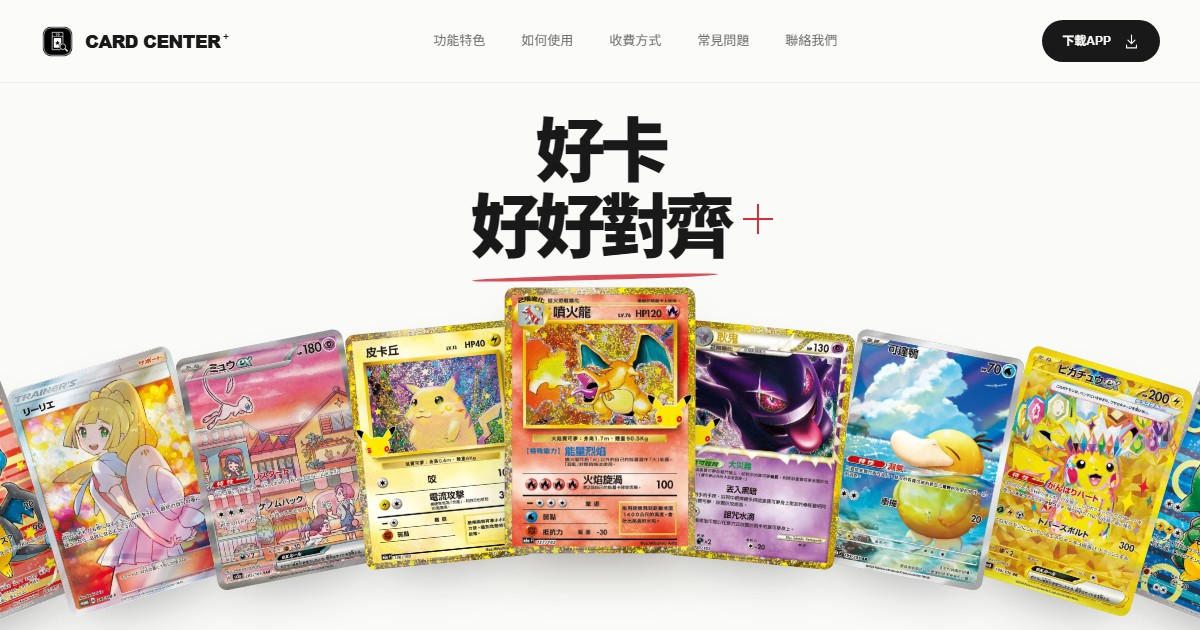
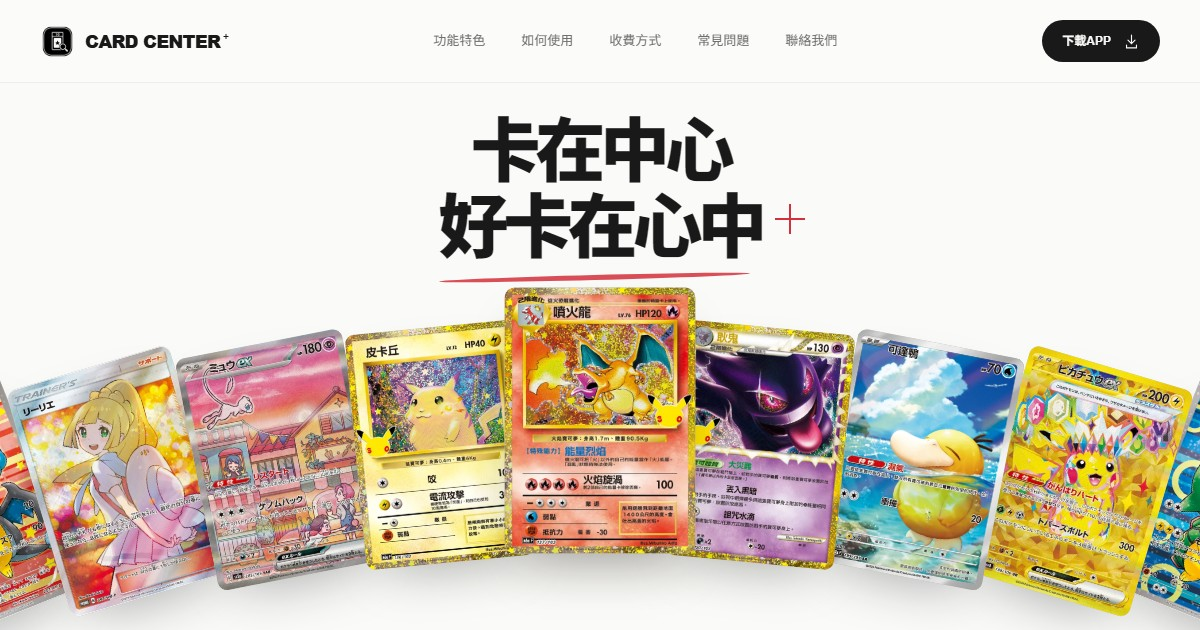
Update the homepage slogan and social preview to 卡在中心 好卡在心中

Changed region(s): [[0.37, 0.181, 0.6783, 0.4524]]

diff --git a/index.html b/index.html
@@ -8,9 +8,9 @@
 <meta content="#fafaf8" name="theme-color"/>
 <meta content="CARD CENTER 卡牌邊框分析 App自動偵測內外框、分析正反面居中比例 製作你的收藏小卡 儲存、分享並收進專屬圖鑑" name="description"/>
 <meta content="website" property="og:type"/>
-<meta content="CARD CENTER — 好卡 好好對齊" property="og:title"/>
+<meta content="CARD CENTER — 卡在中心 好卡在心中" property="og:title"/>
 <meta content="CARD CENTER 卡牌邊框分析 App自動偵測內外框、分析正反面居中比例 製作你的收藏小卡 儲存、分享並收進專屬圖鑑" property="og:description"/>
-<meta content="https://ice0819.github.io/Card-Align/assets/social-preview-card-center.jpg" property="og:image"/>
+<meta content="https://ice0819.github.io/Card-Align/assets/social-preview-card-center.jpg?v=card-at-center" property="og:image"/>
 <meta content="https://ice0819.github.io/Card-Align/" property="og:url"/>
 <meta content="summary_large_image" name="twitter:card"/>
 <link href="assets/favicon.png" rel="icon" type="image/png"/>
@@ -18,7 +18,7 @@
 <link href="styles.css" rel="stylesheet"/>
 <link as="image" fetchpriority="high" href="assets/cards/charizard.webp" rel="preload"/>
 <script defer="" src="script.js"></script>
-<title>CARD CENTER — 好卡 好好對齊</title>
+<title>CARD CENTER — 卡在中心 好卡在心中</title>
 </head>
 <body class="home-page">
 <svg aria-hidden="true" class="icon-definitions" xmlns="http://www.w3.org/2000/svg">
@@ -54,7 +54,7 @@
 <main id="main">
 <section aria-labelledby="hero-title" class="hero">
 <div class="hero-copy container">
-<h1 id="hero-title"><span>好卡</span><br/><span class="hero-emphasis">好好對齊</span><span aria-hidden="true" class="alignment-spark"></span></h1>
+<h1 id="hero-title"><span>卡在中心</span><br/><span class="hero-emphasis">好卡在心中</span><span aria-hidden="true" class="alignment-spark"></span></h1>
 <div class="hero-actions">
 <a class="button apk-download button-ink" download="card-center-v1.0.apk" href="https://github.com/ice0819/Card-Align/releases/download/v1.0-card-center/card-center-v1.0.apk"><svg class="icon"><use href="#i-down"></use></svg><span>下載APP</span></a>
 </div>

diff --git a/pricing.html b/pricing.html
@@ -10,7 +10,7 @@
 <meta content="website" property="og:type"/>
 <meta content="收費方式｜CARD CENTER" property="og:title"/>
 <meta content="CARD CENTER 免費使用、無應用程式內購；自願贊助金額自訂 以新台幣計價" property="og:description"/>
-<meta content="https://ice0819.github.io/Card-Align/assets/social-preview-card-center.jpg" property="og:image"/>
+<meta content="https://ice0819.github.io/Card-Align/assets/social-preview-card-center.jpg?v=card-at-center" property="og:image"/>
 <meta content="https://ice0819.github.io/Card-Align/pricing.html" property="og:url"/>
 <meta content="summary_large_image" name="twitter:card"/>
 <link href="assets/favicon.png" rel="icon" type="image/png"/>

diff --git a/tutorial.html b/tutorial.html
@@ -10,7 +10,7 @@
 <meta content="website" property="og:type"/>
 <meta content="使用教學｜CARD CENTER" property="og:title"/>
 <meta content="從照片到收藏 了解 CARD CENTER 的邊框定位、比例分析與小卡紀錄流程" property="og:description"/>
-<meta content="https://ice0819.github.io/Card-Align/assets/social-preview-card-center.jpg" property="og:image"/>
+<meta content="https://ice0819.github.io/Card-Align/assets/social-preview-card-center.jpg?v=card-at-center" property="og:image"/>
 <meta content="https://ice0819.github.io/Card-Align/tutorial.html" property="og:url"/>
 <meta content="summary_large_image" name="twitter:card"/>
 <link href="assets/favicon.png" rel="icon" type="image/png"/>

diff --git a/contact.html b/contact.html
@@ -10,7 +10,7 @@
 <meta content="website" property="og:type"/>
 <meta content="聯絡我們｜CARD CENTER" property="og:title"/>
 <meta content="CARD CENTER 的客服信箱與網站網址 提供 App 使用與贊助相關聯絡資訊" property="og:description"/>
-<meta content="https://ice0819.github.io/Card-Align/assets/social-preview-card-center.jpg" property="og:image"/>
+<meta content="https://ice0819.github.io/Card-Align/assets/social-preview-card-center.jpg?v=card-at-center" property="og:image"/>
 <meta content="https://ice0819.github.io/Card-Align/contact.html" property="og:url"/>
 <meta content="summary_large_image" name="twitter:card"/>
 <link href="assets/favicon.png" rel="icon" type="image/png"/>
